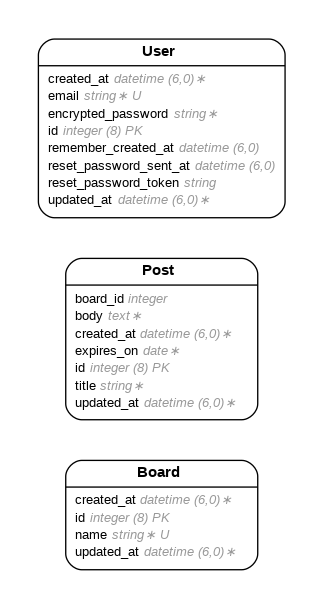
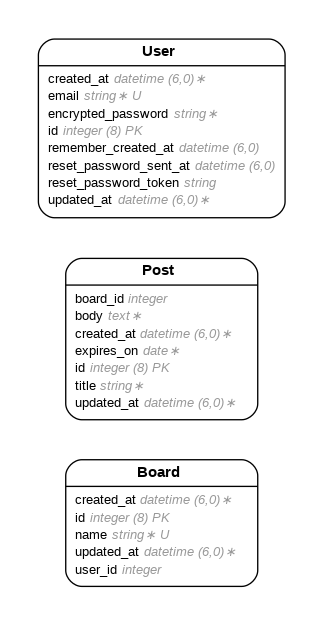
save 2

Changed region(s): [[0.1858, 0.4056, 0.805, 0.9672], [0.0929, 0.0624, 0.8978, 0.3744], [0.8669, 0.312, 0.8978, 0.3432]]

diff --git a/db/schema.rb b/db/schema.rb
@@ -10,7 +10,7 @@
 #
 # It's strongly recommended that you check this file into your version control system.
 
-ActiveRecord::Schema[7.1].define(version: 2024_11_23_024506) do
+ActiveRecord::Schema[7.1].define(version: 2024_11_23_031114) do
   # These are extensions that must be enabled in order to support this database
   enable_extension "plpgsql"
 
@@ -18,6 +18,7 @@ ActiveRecord::Schema[7.1].define(version: 2024_11_23_024506) do
     t.string "name"
     t.datetime "created_at", null: false
     t.datetime "updated_at", null: false
+    t.integer "user_id"
   end
 
   create_table "posts", force: :cascade do |t|

diff --git a/app/models/board.rb b/app/models/board.rb
@@ -6,6 +6,7 @@
 #  name       :string
 #  created_at :datetime         not null
 #  updated_at :datetime         not null
+#  user_id    :integer
 #
 class Board < ApplicationRecord
   validates(:name, presence: true, uniqueness: true)
